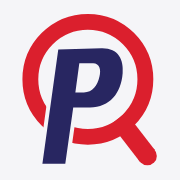
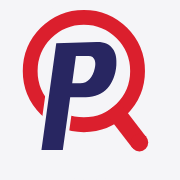
Kulatá ikona: P v lupě na světlém kotouči
Na tmavé liště prohlížeče působil světlý čtverec jako nálepka. Kotouč
ladí s kulatou lupou a Google ikonu stejně dává do kulatého rámečku.
favicon.ico má průhledné rohy, apple-touch-icon zůstává plný čtverec
(iOS by průhledná místa vyplnil černou). Verze ikony 3, aby prohlížeče
starou vyměnily.

Changed region(s): [[0.1111, 0.0556, 0.8889, 0.9444], [0.6944, 0.1389, 0.7222, 0.1667]]

diff --git a/tests/unit/ikona.test.ts b/tests/unit/ikona.test.ts
@@ -1,11 +1,33 @@
 import { describe, it, expect } from 'vitest';
 import { readFileSync } from 'node:fs';
+import { inflateSync } from 'node:zlib';
 
 /** Rozměry PNG z hlavičky IHDR. */
 const rozmeryPng = (data: Buffer) => {
   expect(data.subarray(1, 4).toString('latin1')).toBe('PNG');
   return { sirka: data.readUInt32BE(16), vyska: data.readUInt32BE(20) };
 };
+
+/** Průhlednost levého horního pixelu PNG (0 = průhledný, 255 = plný).
+ *  První pixel prvního řádku je po kterémkoli filtru PNG uložený beze změny, stačí ho přečíst. */
+const pruhlednostRohu = (data: Buffer) => {
+  const typBarev = data.readUInt8(25);
+  if (typBarev !== 6) return 255; // bez alfa kanálu je všechno plné
+  const idat: Buffer[] = [];
+  for (let z = 8; z < data.length; ) {
+    const delka = data.readUInt32BE(z);
+    if (data.subarray(z + 4, z + 8).toString('latin1') === 'IDAT') idat.push(data.subarray(z + 8, z + 8 + delka));
+    z += 12 + delka;
+  }
+  return inflateSync(Buffer.concat(idat))[4];
+};
+
+/** Obrázky uvnitř favicon.ico. */
+const obrazkyIco = (ico: Buffer) =>
+  Array.from({ length: ico.readUInt16LE(4) }, (_, i) => {
+    const z = 6 + 16 * i;
+    return ico.subarray(ico.readUInt32LE(z + 12), ico.readUInt32LE(z + 12) + ico.readUInt32LE(z + 8));
+  });
 
 describe('ikony webu', () => {
   it('favicon.ico obsahuje PNG 16, 32 a 48 px', () => {
@@ -23,6 +45,14 @@ describe('ikony webu', () => {
       velikosti.push(sirka);
     }
     expect(velikosti).toEqual([16, 32, 48]);
+  });
+
+  it('favicon.ico je kulatá: rohy jsou průhledné', () => {
+    for (const png of obrazkyIco(readFileSync('public/favicon.ico'))) expect(pruhlednostRohu(png)).toBe(0);
+  });
+
+  it('apple-touch-icon.png má plný čtverec (iOS by průhledné rohy vyplnil černou)', () => {
+    expect(pruhlednostRohu(readFileSync('public/apple-touch-icon.png'))).toBe(255);
   });
 
   it('apple-touch-icon.png má 180 × 180 px', () => {
